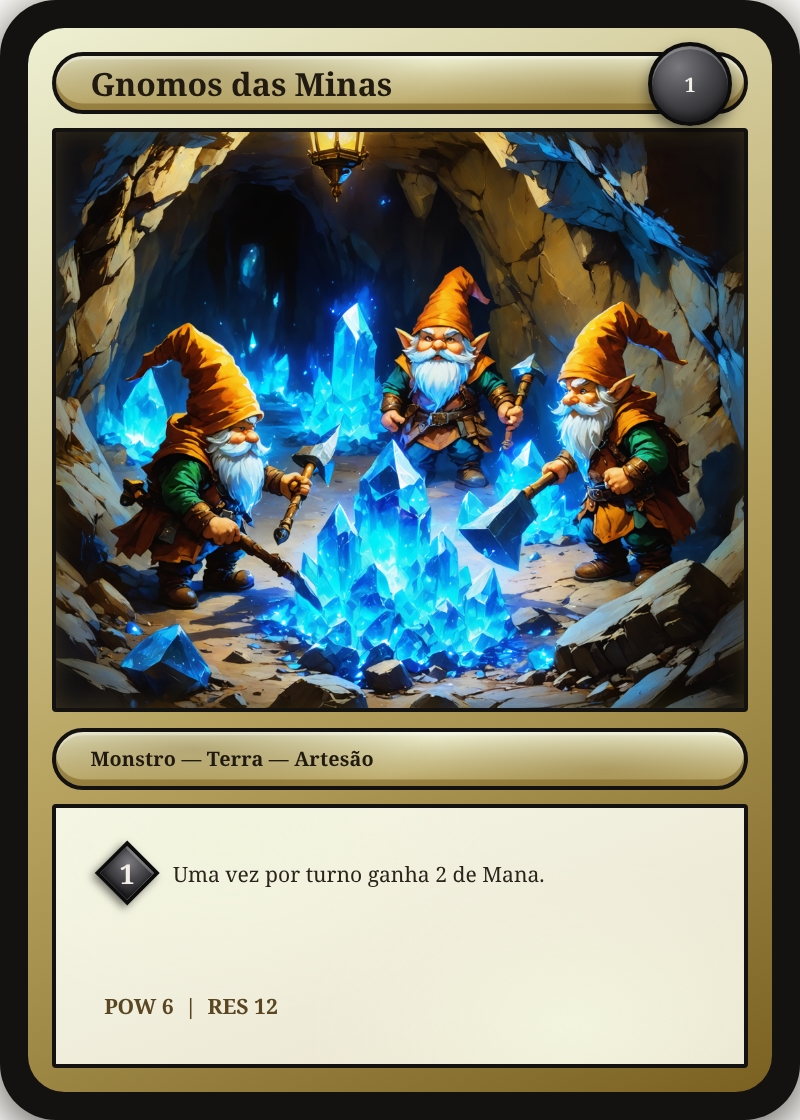
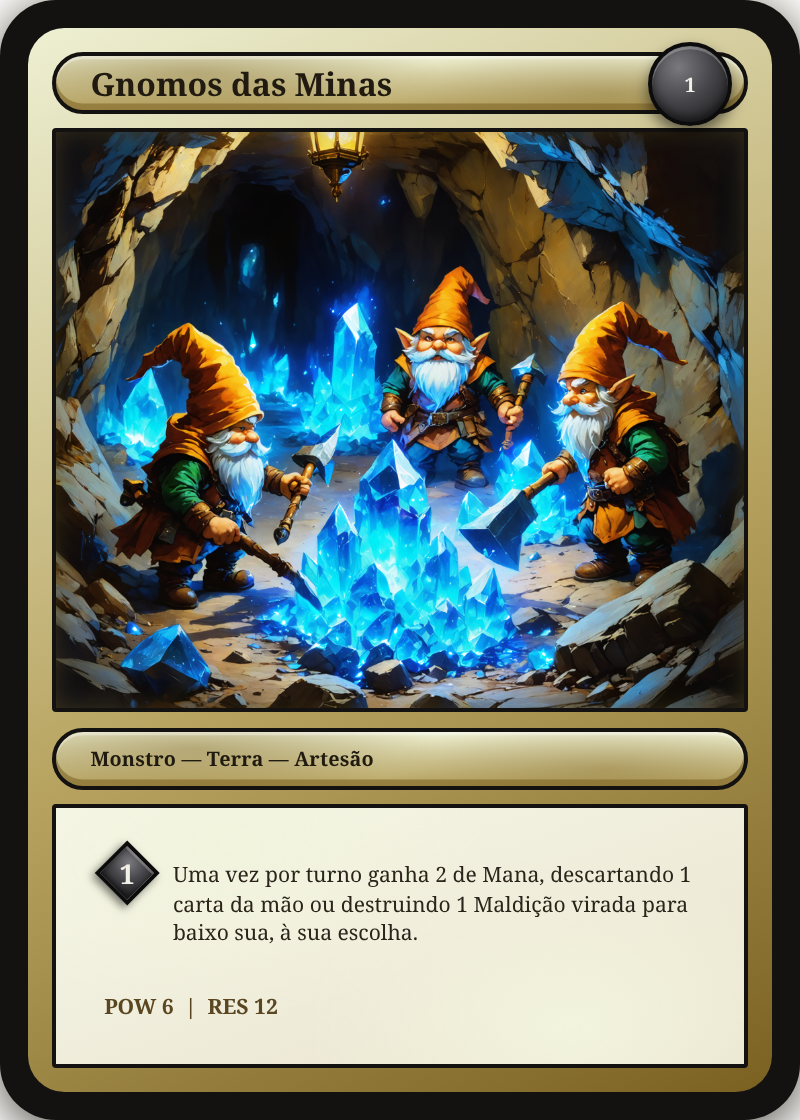
Habilidades de +Mana em Monstros ganham drawback: descarte ou destrua
Gnomos das Minas, Soldados de Camelot e Zumbis Errantes (as 3
Habilidades de ganho de Mana entre os combatentes de Suporte) agora
custam mais que o Custo de Habilidade em Mana: cada ativação também
exige descartar 1 carta da mão OU destruir 1 Maldição virada para
baixo sua — à escolha do jogador, nunca do oponente. Mantém o ganho
de Mana líquido (+1/turno) já calibrado, só adiciona um segundo tipo
de custo (recurso de carta) em cima do mana.

- game/effects.py: nova primitiva de efeito
  `_drawback_carta_ou_maldicao(ctrl, player_id, nome_carta)` — junta mão
  + Maldições setadas do próprio jogador num único `solicitar_selecao`
  (a escolha define destino: descarte se veio da mão, destruir se veio
  do campo). Sem opção nenhuma disponível, segue sem custo extra (mesma
  leniência de Pacto de Sangue/Selva Amazônica).
- webgame/effects.js: `drawbackCartaOuMaldicao`, mesmo espelho.
- CSV: "Efeito / Habilidade" das 3 cartas reescrito descrevendo o
  drawback; renderizado de novo (só essas 3 PNGs mudaram).
- GAME_DESIGN.md: novo parágrafo na seção "Diretrizes de Design de
  Combatentes" documentando o drawback.

Verificado nos dois motores, os dois ramos da escolha (descartar da
mão / destruir Maldição própria) e o caso de leniência (mão vazia e
sem Maldição setada -> segue sem custo, sem nem abrir o modal de
seleção) — cenários diretos em Python e via page.evaluate em JS. Sem
suíte longa.

Claude-Session: https://claude.ai/code/session_011dvRufLat9ksNCjicw8Mae

Changed region(s): [[0.2188, 0.7812, 0.5625, 0.8438], [0.5938, 0.7812, 0.875, 0.8125]]

diff --git a/webgame/effects.js b/webgame/effects.js
@@ -351,15 +351,57 @@ reg("Quimera", (game, playerId, carta) => {
 // Faixa de POW até 14: baratos, focados em busca de carta e farm de Mana
 // pra abrir caminho pro combatente Poderoso — não em brigar (por isso a
 // Habilidade de cada um é só um dos dois primitivos de sempre, comprar/
-// ganharMana, sem nenhum efeito de combate).
+// ganharMana, sem nenhum efeito de combate). As 3 Habilidades de +Mana
+// (Gnomos das Minas, Soldados de Camelot, Zumbis Errantes) têm um
+// drawback além do Custo de Habilidade — ver drawbackCartaOuMaldicao.
+
+// Drawback de mana: o jogador ESCOLHE entre descartar 1 carta da mão ou
+// destruir 1 Maldição virada para baixo sua (nunca do oponente — preço
+// pago com o próprio recurso, mesmo espírito do sacrifício dos
+// Encantamentos Contínuos). As duas opções entram no mesmo pedido de
+// seleção — mão + Maldições setadas do próprio jogador — porque ambas são
+// só "escolha 1 carta", diferindo apenas em pra onde ela vai depois. Sem
+// opção nenhuma disponível (mão vazia e nenhuma Maldição setada), a
+// Habilidade segue sem custo — mesma leniência de Pacto de Sangue/Selva
+// Amazônica quando falta o alvo do sacrifício.
+function drawbackCartaOuMaldicao(game, playerId, nomeCarta) {
+  const ps = game.players[playerId];
+  const lado = game.board[playerId];
+  const maldicoesProprias = lado.magia.filter((c) => c && c.faceDown);
+  const opcoes = ps.mao.concat(maldicoesProprias);
+  if (!opcoes.length) return;
+  game.selection.solicitar(
+    playerId, `${nomeCarta}: descarte 1 carta da mão ou destrua 1 Maldição virada para baixo sua`,
+    opcoes,
+    (escolha) => {
+      const escolhida = escolha[0];
+      if (ps.mao.includes(escolhida)) {
+        ps.mao.splice(ps.mao.indexOf(escolhida), 1);
+        game.descarte[playerId].push(escolhida);
+        game.bus.emit("cartaDescartada", { playerId, carta: escolhida });
+      } else {
+        TCG.destruir(game, escolhida, nomeCarta);
+      }
+    }
+  );
+}
 
 // ganha 2, Custo de Habilidade é 1 -> +1 de Mana líquido por ativação,
 // senão a Habilidade só pagaria a si mesma (sem farm de verdade).
-reg("Gnomos das Minas", (game, playerId) => TCG.ganharMana(game, playerId, 2));
+reg("Gnomos das Minas", (game, playerId) => {
+  TCG.ganharMana(game, playerId, 2);
+  drawbackCartaOuMaldicao(game, playerId, "Gnomos das Minas");
+});
 
-reg("Soldados de Camelot", (game, playerId) => TCG.ganharMana(game, playerId, 2)); // mesma lógica acima
+reg("Soldados de Camelot", (game, playerId) => { // mesma lógica de Gnomos das Minas acima
+  TCG.ganharMana(game, playerId, 2);
+  drawbackCartaOuMaldicao(game, playerId, "Soldados de Camelot");
+});
 
-reg("Zumbis Errantes", (game, playerId) => TCG.ganharMana(game, playerId, 3)); // Custo de Habilidade 2 -> +1 líquido
+reg("Zumbis Errantes", (game, playerId) => { // Custo de Habilidade 2 -> +1 líquido
+  TCG.ganharMana(game, playerId, 3);
+  drawbackCartaOuMaldicao(game, playerId, "Zumbis Errantes");
+});
 
 reg("Fadas do Bosque", (game, playerId) => TCG.comprar(game, playerId, 1));
 

diff --git a/webgame/data.js b/webgame/data.js
@@ -776,7 +776,7 @@ const CARTAS = [
     "custoMana": 1,
     "resistencia": 12,
     "combate": 6,
-    "efeito": "Uma vez por turno ganha 2 de Mana.",
+    "efeito": "Uma vez por turno ganha 2 de Mana, descartando 1 carta da mão ou destruindo 1 Maldição virada para baixo sua, à sua escolha.",
     "custoHabilidade": 1,
     "tipoEncantamento": null
   },
@@ -788,7 +788,7 @@ const CARTAS = [
     "custoMana": 2,
     "resistencia": 15,
     "combate": 13,
-    "efeito": "Uma vez por turno ganha 2 de Mana.",
+    "efeito": "Uma vez por turno ganha 2 de Mana, descartando 1 carta da mão ou destruindo 1 Maldição virada para baixo sua, à sua escolha.",
     "custoHabilidade": 1,
     "tipoEncantamento": null
   },
@@ -800,7 +800,7 @@ const CARTAS = [
     "custoMana": 2,
     "resistencia": 13,
     "combate": 9,
-    "efeito": "Uma vez por turno ganha 3 de Mana.",
+    "efeito": "Uma vez por turno ganha 3 de Mana, descartando 1 carta da mão ou destruindo 1 Maldição virada para baixo sua, à sua escolha.",
     "custoHabilidade": 2,
     "tipoEncantamento": null
   },

diff --git a/game/effects.py b/game/effects.py
@@ -543,23 +543,64 @@ def _(ctrl, player_id, card, evento=None):
 # Faixa de POW até 14: baratos, focados em busca de carta e farm de Mana
 # pra abrir caminho pro combatente Poderoso — não em brigar (por isso a
 # Habilidade de cada um é só um dos dois primitivos de sempre, comprar/
-# ganhar_mana, sem nenhum efeito de combate).
+# ganhar_mana, sem nenhum efeito de combate). As 3 Habilidades de +Mana
+# (Gnomos das Minas, Soldados de Camelot, Zumbis Errantes) têm um
+# drawback além do Custo de Habilidade — ver _drawback_carta_ou_maldicao.
+
+def _drawback_carta_ou_maldicao(ctrl, player_id: int, nome_carta: str) -> None:
+    """Drawback de mana: o jogador ESCOLHE entre descartar 1 carta da mão
+    ou destruir 1 Maldição virada para baixo sua (nunca do oponente — é
+    um preço pago com o próprio recurso, mesmo espírito do sacrifício dos
+    Encantamentos Contínuos). As duas opções entram no mesmo pedido de
+    seleção — mão + Maldições setadas do próprio jogador — porque ambas
+    são só "escolha 1 carta", diferindo apenas em pra onde ela vai depois.
+    Sem opção nenhuma disponível (mão vazia e nenhuma Maldição setada), a
+    Habilidade segue sem custo — mesma leniência de Pacto de Sangue/Selva
+    Amazônica quando falta o alvo do sacrifício."""
+    ps = ctrl.players[player_id]
+    lado = ctrl.board.lado(player_id)
+    maldicoes_proprias = [c for c in lado.magia if c is not None and ctrl.world.has_component(c, FaceDown)]
+    opcoes = list(ps.mao) + maldicoes_proprias
+    if not opcoes:
+        return
+
+    def _ao_escolher(escolha: list[int]) -> None:
+        escolhida = escolha[0]
+        if escolhida in ps.mao:
+            ps.mao.remove(escolhida)
+            loc = ctrl.world.get_component(escolhida, Location)
+            if loc:
+                loc.zona = Zona.PILHA_DESCARTE
+            ctrl.bus.publish(CardDiscarded(player_id=player_id, card=escolhida))
+        else:
+            destruir(ctrl, escolhida, nome_carta)
+
+    ctrl.solicitar_selecao(
+        player_id=player_id,
+        prompt=f"{nome_carta}: descarte 1 carta da mão ou destrua 1 Maldição virada para baixo sua",
+        opcoes=opcoes,
+        on_resolved=_ao_escolher,
+    )
+
 
 @EFFECTS.registrar("Gnomos das Minas")
 def _(ctrl, player_id, card, evento=None):
     # ganha 2, Custo de Habilidade e 1 -> +1 de Mana liquido por ativacao,
     # senao a Habilidade so pagaria a si mesma (sem farm de verdade).
     ganhar_mana(ctrl, player_id, 2)
+    _drawback_carta_ou_maldicao(ctrl, player_id, "Gnomos das Minas")
 
 
 @EFFECTS.registrar("Soldados de Camelot")
 def _(ctrl, player_id, card, evento=None):
     ganhar_mana(ctrl, player_id, 2)  # mesma logica de Gnomos das Minas acima
+    _drawback_carta_ou_maldicao(ctrl, player_id, "Soldados de Camelot")
 
 
 @EFFECTS.registrar("Zumbis Errantes")
 def _(ctrl, player_id, card, evento=None):
     ganhar_mana(ctrl, player_id, 3)  # Custo de Habilidade 2 -> +1 liquido
+    _drawback_carta_ou_maldicao(ctrl, player_id, "Zumbis Errantes")
 
 
 @EFFECTS.registrar("Fadas do Bosque")

diff --git a/GAME_DESIGN.md b/GAME_DESIGN.md
@@ -73,6 +73,8 @@ Esta seção registra a filosofia de curva de poder e a taxonomia do Panteão. O
 
 Soldados de Camelot (Custo de Mana 2, POW 13) fica na ponta de cima do Suporte, quase entrando no Intermediário — a faixa é uma referência pra guiar Custo de Mana vs. POW, não um teto rígido por Custo.
 
+**Drawback das 3 Habilidades de +Mana:** Gnomos das Minas, Soldados de Camelot e Zumbis Errantes ganham Mana (2, 2 e 3 respectivamente — 1 a mais que o próprio Custo de Habilidade cobra, pra sobrar +1 líquido de verdade), mas cada ativação também custa **descartar 1 carta da mão OU destruir 1 Maldição virada para baixo sua, à escolha do jogador** — nunca uma carta do oponente, é um preço pago com o próprio recurso, mesmo espírito do sacrifício dos Encantamentos Contínuos. Sem carta na mão nem Maldição setada pra sacrificar, a Habilidade segue sem esse custo extra (mesma leniência de Pacto de Sangue/Selva Amazônica quando falta o alvo do sacrifício).
+
 **Função (subcategoria dentro de Herói/Monstro):** a lista original era Guerreiro, Arqueiro, Mago, Dragão, Primordial, Deus, Demônio, Espírito; os 6 Suporte acrescentaram **Artesão** (Gnomos das Minas) e **Morto-Vivo** (Zumbis Errantes) — a lista é extensível, uma carta temática nova pode introduzir uma Função nova em vez de forçar uma das existentes. É só descritiva (aparece na barra sob a arte, `scripts/renderizar_cartas.py`) — nenhuma regra do motor lê esse campo.
 
 **Elemento Neutro:** um combatente sem elemento usa `-` na coluna Elemento (`Elemento.NENHUM`/Elemento `null` em JS) — a mesma convenção que Domínio/Encantamento/Maldição já usavam. Isso já FUNCIONA como "Neutro" sem nenhuma mudança de motor: a tabela de vantagem elemental (`VANTAGEM_ELEMENTAL`/`Combate e Sistema Elemental` acima) só tem entradas pra Fogo/Água/Terra/Vento, então um combatente `-` nunca dá nem sofre o bônus de +2 POW por vantagem elemental, nos dois papéis (atacando ou defendendo). Soldados de Camelot e Sombras Noturnas usam essa convenção.
